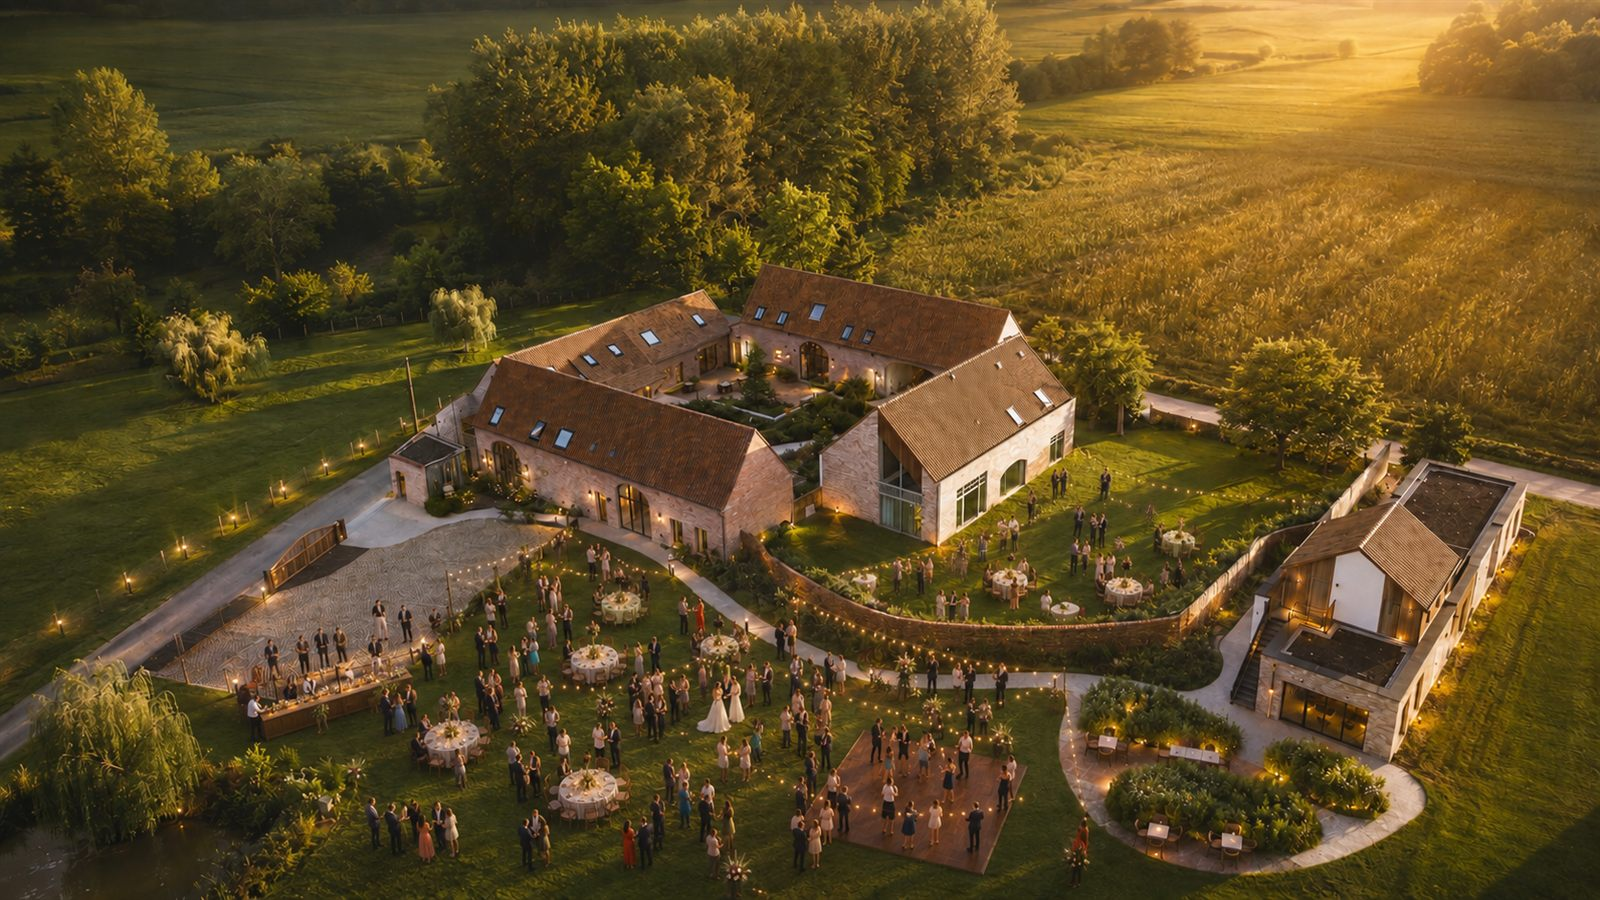
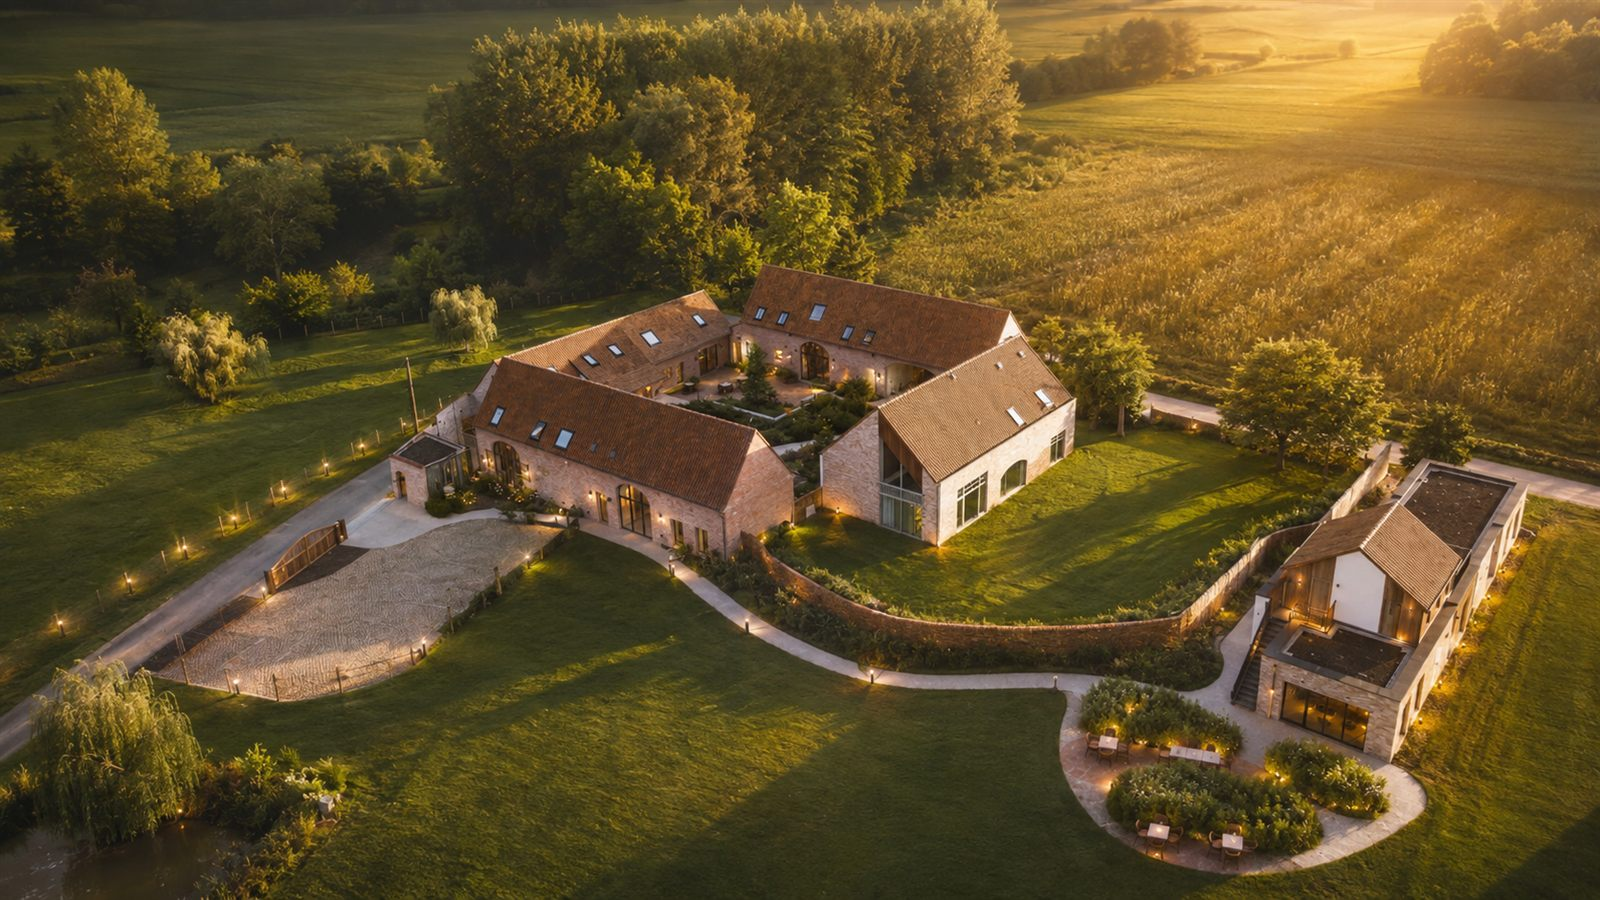
Huwelijksfeest-carrousel uitgebreid naar 7 foto's: echte avond-luchtfoto, verlichte tuin, dag-luchtfoto (NL/FR/EN/DE)

diff --git a/public/fr/feesten.html b/public/fr/feesten.html
@@ -112,7 +112,9 @@ s.parentNode.insertBefore(b, s);})(window.lintrk);
             <div class="slide"><img src="/assets/img/feesten-trouw-c2.jpg" alt="Salle de mariage décorée avec mange-debout et fleurs" loading="lazy"></div>
             <div class="slide"><img src="/assets/img/feesten-trouw-c3.jpg" alt="Réception du soir avec mange-debout dans le jardin et sur le patio intérieur" loading="lazy"></div>
             <div class="slide"><img src="/assets/img/feesten-trouw-c4.jpg" alt="Vue aérienne de la cérémonie de mariage dans la forêt nourricière" loading="lazy"></div>
-            <div class="slide"><img src="/assets/img/feesten-trouw-c5.jpg" alt="Vue aérienne du domaine lors d'une fête en soirée" loading="lazy"></div>
+            <div class="slide"><img src="/assets/img/feesten-trouw-c5.jpg" alt="Vue aérienne du domaine sous le soleil du soir" loading="lazy"></div>
+            <div class="slide"><img src="/assets/img/feesten-trouw-c6.jpg" alt="Jardin et patio intérieur illuminés en soirée" loading="lazy"></div>
+            <div class="slide"><img src="/assets/img/feesten-trouw-c7.jpg" alt="Vue aérienne de la ferme carrée du 18e siècle au milieu des champs" loading="lazy"></div>
           </div>
           <button class="slider-btn slider-prev" aria-label="Précédent">‹</button>
           <button class="slider-btn slider-next" aria-label="Suivant">›</button>

diff --git a/public/de/feesten.html b/public/de/feesten.html
@@ -108,7 +108,9 @@ s.parentNode.insertBefore(b, s);})(window.lintrk);
             <div class="slide"><img src="/assets/img/feesten-trouw-c2.jpg" alt="Dekorierter Hochzeitssaal mit Stehtischen und Blumen" loading="lazy"></div>
             <div class="slide"><img src="/assets/img/feesten-trouw-c3.jpg" alt="Abendempfang mit Stehtischen im Garten und auf dem Innenhof-Patio" loading="lazy"></div>
             <div class="slide"><img src="/assets/img/feesten-trouw-c4.jpg" alt="Luftaufnahme der Hochzeitszeremonie im Waldgarten" loading="lazy"></div>
-            <div class="slide"><img src="/assets/img/feesten-trouw-c5.jpg" alt="Luftaufnahme des Anwesens bei einer Abendfeier" loading="lazy"></div>
+            <div class="slide"><img src="/assets/img/feesten-trouw-c5.jpg" alt="Luftaufnahme des Anwesens in der Abendsonne" loading="lazy"></div>
+            <div class="slide"><img src="/assets/img/feesten-trouw-c6.jpg" alt="Stimmungsvoll beleuchteter Garten und Innenhof-Patio am Abend" loading="lazy"></div>
+            <div class="slide"><img src="/assets/img/feesten-trouw-c7.jpg" alt="Luftaufnahme der Vierkantshoeve aus dem 18. Jahrhundert zwischen den Feldern" loading="lazy"></div>
           </div>
           <button class="slider-btn slider-prev" aria-label="Zurück">‹</button>
           <button class="slider-btn slider-next" aria-label="Weiter">›</button>

diff --git a/public/en/feesten.html b/public/en/feesten.html
@@ -112,7 +112,9 @@ s.parentNode.insertBefore(b, s);})(window.lintrk);
             <div class="slide"><img src="/assets/img/feesten-trouw-c2.jpg" alt="Decorated wedding hall with standing tables and flowers" loading="lazy"></div>
             <div class="slide"><img src="/assets/img/feesten-trouw-c3.jpg" alt="Evening reception with standing tables in the garden and on the inner patio" loading="lazy"></div>
             <div class="slide"><img src="/assets/img/feesten-trouw-c4.jpg" alt="Aerial view of the wedding ceremony in the food forest" loading="lazy"></div>
-            <div class="slide"><img src="/assets/img/feesten-trouw-c5.jpg" alt="Aerial view of the estate during an evening party" loading="lazy"></div>
+            <div class="slide"><img src="/assets/img/feesten-trouw-c5.jpg" alt="Aerial view of the estate in the evening sun" loading="lazy"></div>
+            <div class="slide"><img src="/assets/img/feesten-trouw-c6.jpg" alt="Atmospherically lit garden and inner patio at night" loading="lazy"></div>
+            <div class="slide"><img src="/assets/img/feesten-trouw-c7.jpg" alt="Aerial view of the 18th-century square farmstead among the fields" loading="lazy"></div>
           </div>
           <button class="slider-btn slider-prev" aria-label="Previous">‹</button>
           <button class="slider-btn slider-next" aria-label="Next">›</button>

diff --git a/public/feesten.html b/public/feesten.html
@@ -115,7 +115,9 @@ s.parentNode.insertBefore(b, s);})(window.lintrk);
             <div class="slide"><img src="/assets/img/feesten-trouw-c2.jpg" alt="Versierde trouwzaal met statafels en bloemen" loading="lazy"></div>
             <div class="slide"><img src="/assets/img/feesten-trouw-c3.jpg" alt="Avondreceptie met statafels in de tuin en op de binnenpatio" loading="lazy"></div>
             <div class="slide"><img src="/assets/img/feesten-trouw-c4.jpg" alt="Luchtfoto van de huwelijksceremonie in het voedselbos" loading="lazy"></div>
-            <div class="slide"><img src="/assets/img/feesten-trouw-c5.jpg" alt="Luchtfoto van het domein tijdens een avondfeest" loading="lazy"></div>
+            <div class="slide"><img src="/assets/img/feesten-trouw-c5.jpg" alt="Luchtfoto van het domein in de avondzon" loading="lazy"></div>
+            <div class="slide"><img src="/assets/img/feesten-trouw-c6.jpg" alt="Sfeervol verlichte tuin en binnenpatio bij avond" loading="lazy"></div>
+            <div class="slide"><img src="/assets/img/feesten-trouw-c7.jpg" alt="Luchtfoto van de 18e-eeuwse vierkantshoeve tussen de velden" loading="lazy"></div>
           </div>
           <button class="slider-btn slider-prev" aria-label="Vorige">‹</button>
           <button class="slider-btn slider-next" aria-label="Volgende">›</button>
